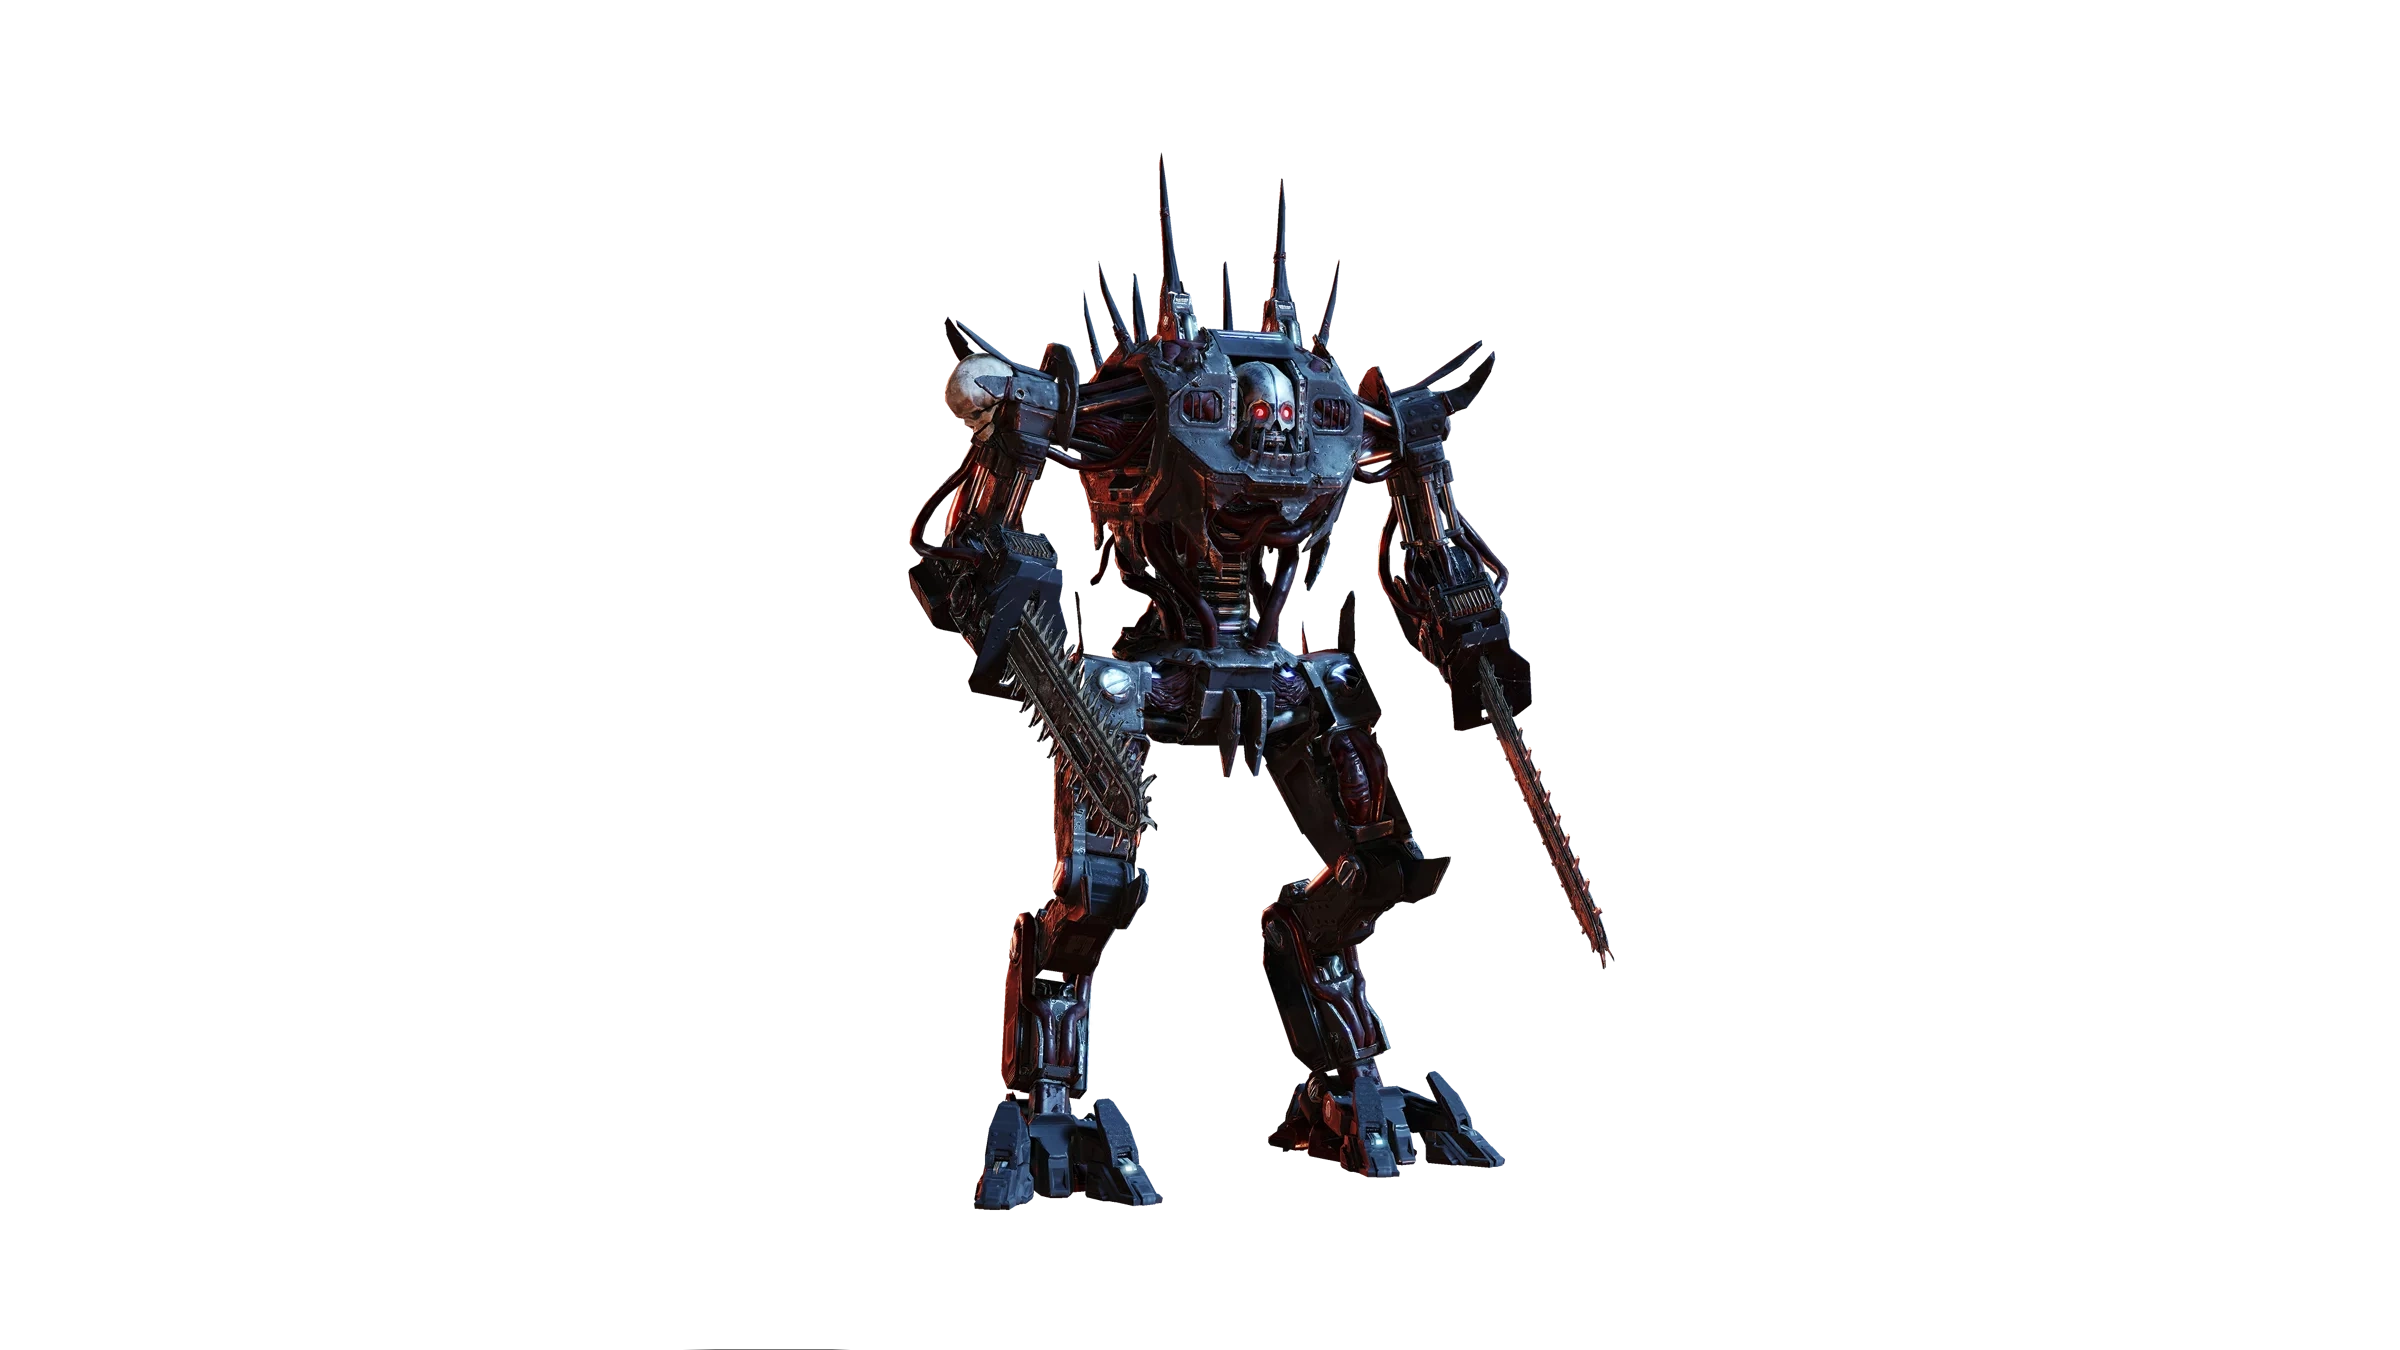
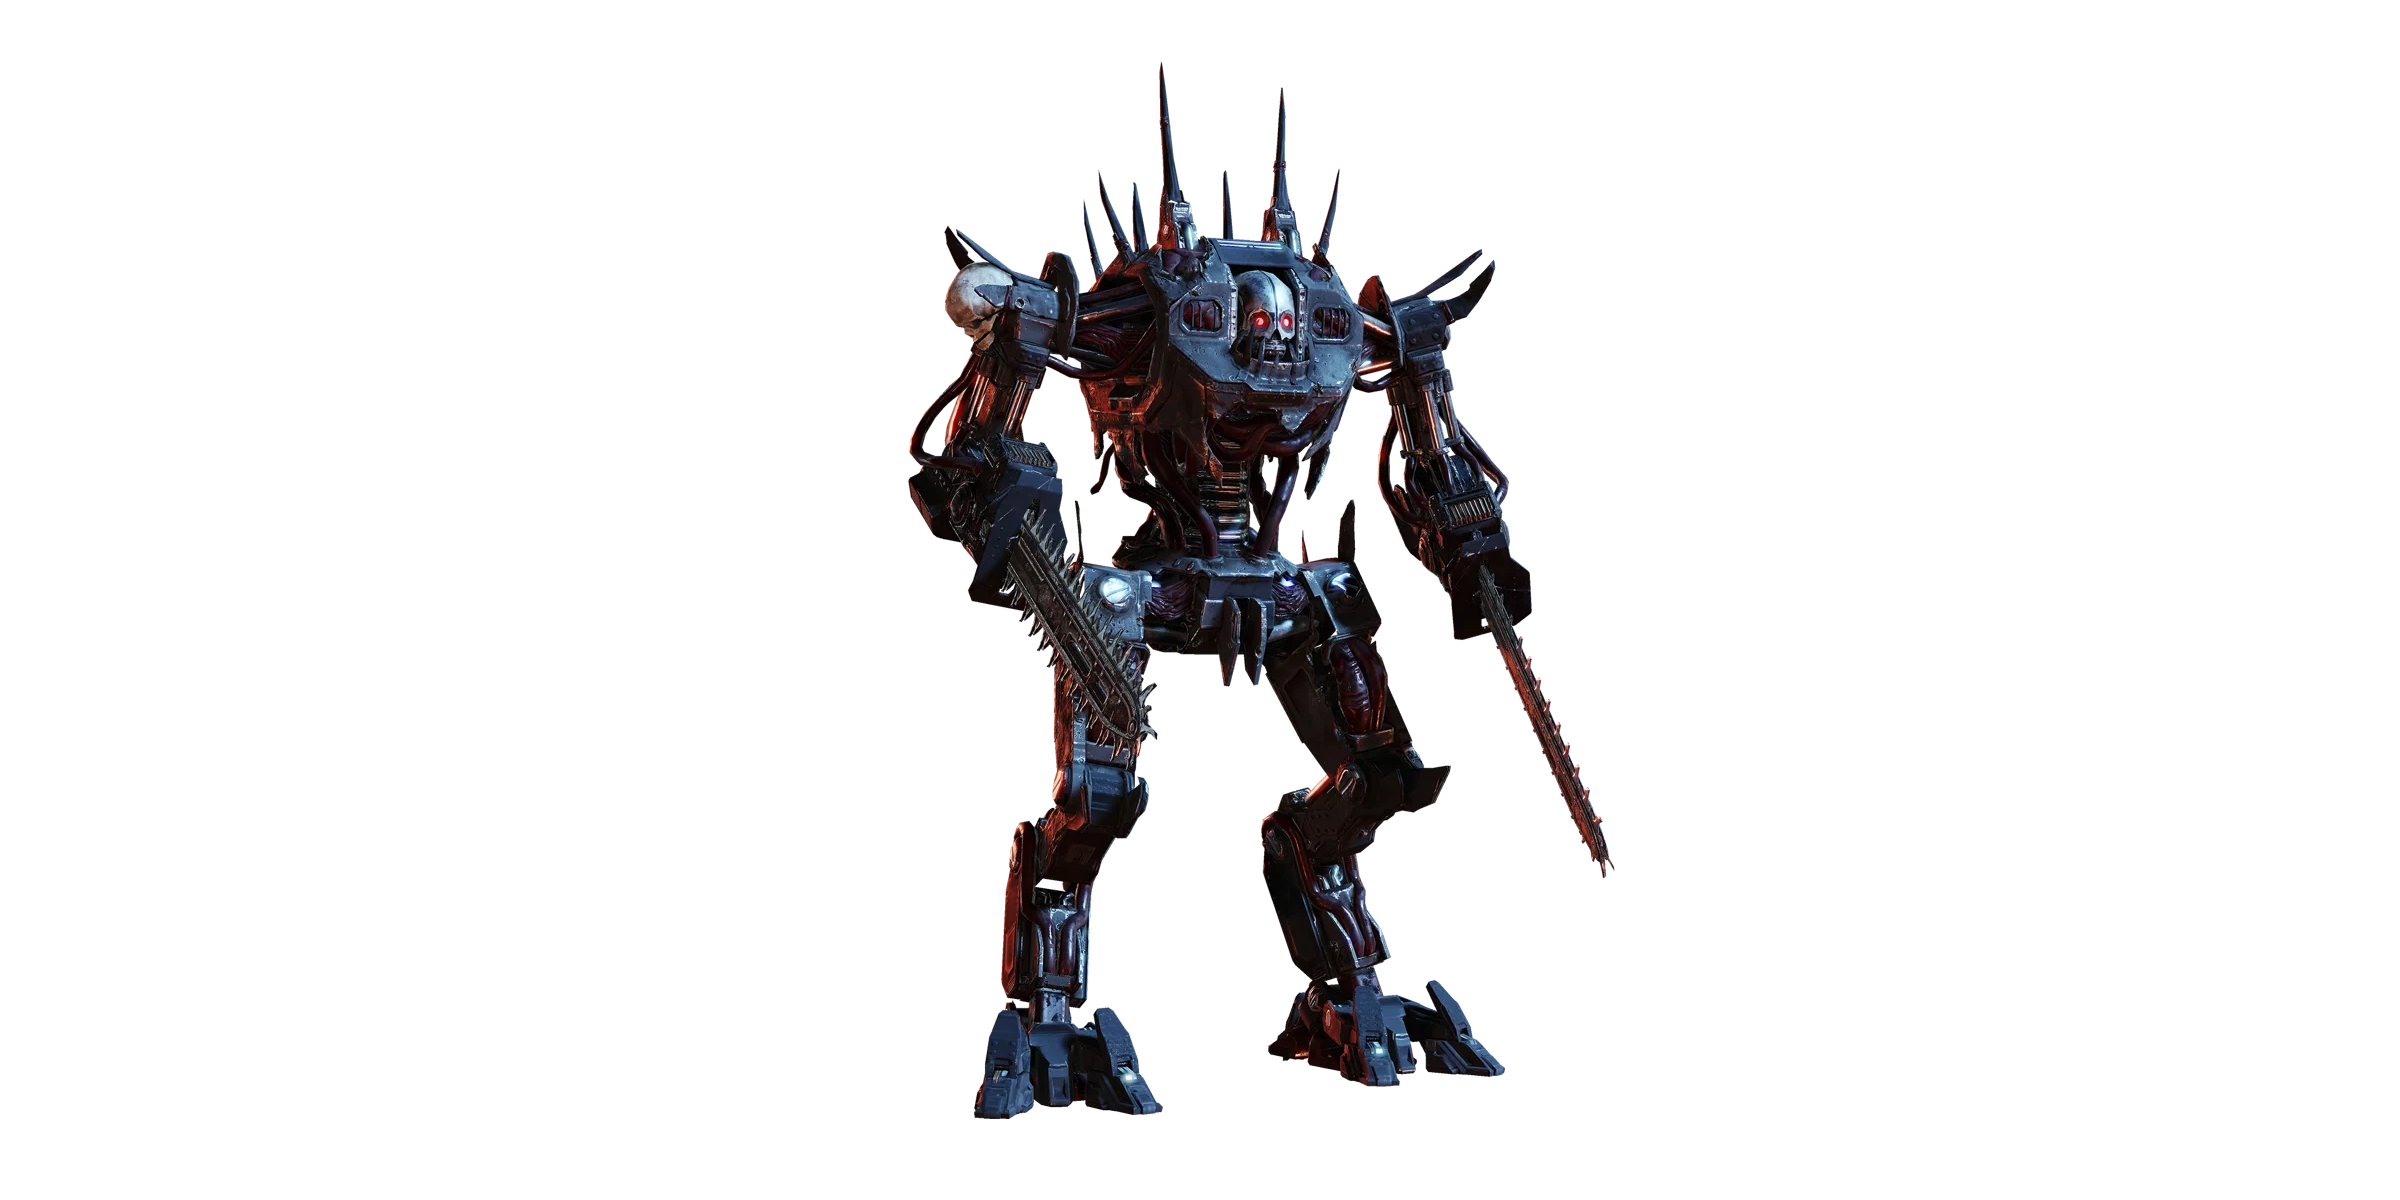
feat: Адаптировал страницу противников под мобильные устройства
chore: Заменил изображения 2 автоматонов

Changed region(s): [[0.375, 0.0925, 0.6875, 0.9558], [0.5, 0.6167, 0.625, 0.925]]

diff --git a/entities/enemiesPage/enemy/Enemy.tsx b/entities/enemiesPage/enemy/Enemy.tsx
@@ -56,7 +56,7 @@ const Enemy: React.FC<EnemyTypeProps> = ({
           src={`${iconPath}`}
           alt=""
           style={{ transform: imageStyleScale }}
-          className={`w-[200px] h-[300px] ${fraction === "Автоматоны" ? getSpecificAutomatonStyle(id) : getSpecificTerminidStyle(id)}`}
+          className={`w-[200px] mlarge:w-[180px] mmedium:w-[160px] msmall:w-[140px] h-[300px] mlarge:h-[235px] mmedium:h-[215px] msmall:h-[195px] ${fraction === "Автоматоны" ? getSpecificAutomatonStyle(id) : getSpecificTerminidStyle(id)}`}
         />
       ) : (
         <p
@@ -66,7 +66,7 @@ const Enemy: React.FC<EnemyTypeProps> = ({
         </p>
       )}
 
-      <p className="mt-[20px] text-[#ffffff] text-[1.75rem] text-center font-['Exo2'] font-bold">
+      <p className="mt-[20px] mlarge:mt-[-5px] mmedium:mt-[-5px] msmall:mt-0 text-[#ffffff] text-[1.75rem] mlarge:text-[1.25rem] mmedium:text-[1.125rem] msmall:text-[1rem] text-center font-['Exo2'] font-bold">
         {title}
       </p>
     </Link>

diff --git a/app/enemy/[fractionName]/page.tsx b/app/enemy/[fractionName]/page.tsx
@@ -14,7 +14,6 @@ import PageDescription from "@/shared/PageDescription";
 import Enemy from "@/entities/enemiesPage/enemy/Enemy";
 
 import "@/app/pageSections.css";
-import "./EnemyPage.css";
 
 export function generateStaticParams() {
   return [{ fractionName: "terminids" }, { fractionName: "automatons" }];
@@ -75,7 +74,7 @@ const Page: React.FC<{ params: any }> = ({ params }) => {
           </>
         )}
 
-        <section className="pageGridSection grid-cols-3">
+        <section className="pageGridSection grid-cols-3 mlarge:grid-cols-1 mt-[50px] mlarge:mt-[30px]">
           {params.fractionName === "terminids"
             ? enemiesStore.terminids.map((terminid) => (
                 <Enemy

diff --git a/entities/enemiesPage/enemy/Enemy.css b/entities/enemiesPage/enemy/Enemy.css
@@ -1,3 +1,3 @@
 .rootWidgetLink {
-    @apply relative grid justify-items-center px-[30px] py-[30px] w-full h-auto bg-[#00293a] border-2 border-[--theme-color] rounded-[10px] overflow-hidden cursor-pointer;
+    @apply relative grid justify-items-center px-[30px] mlarge:px-[15px] py-[30px] mlarge:py-[15px] w-full h-auto mlarge:h-[290px] mmedium:h-[270px] msmall:h-[250px] bg-[#00293a] border-2 border-[--theme-color] rounded-[10px] overflow-hidden cursor-pointer;
 }

diff --git a/app/globals.css b/app/globals.css
@@ -43,7 +43,7 @@ main {
 }
 
 .pageDescription {
-  @apply mt-[20px] w-[80%] mlarge:w-full text-[#ffffff] text-[1.5rem] mlarge:text-[1.125rem] font-['Exo2'] font-medium brightness-75;
+  @apply mt-[20px] mlarge:mt-[10px] w-[80%] mlarge:w-full text-[#ffffff] text-[1.5rem] mlarge:text-[1.125rem] font-['Exo2'] font-medium brightness-75;
 }
 
 .sliderWrapper_Slider_Slide {

diff --git a/store/EnemiesStore.ts b/store/EnemiesStore.ts
@@ -254,7 +254,7 @@ class EnemiesStore {
     {
       id: 3,
       iconPath: "/static/Automatons/BerserkerImage.webp",
-      imageStyleScale: "scaleY(1.2) scaleX(3.5)",
+      imageStyleScale: "scaleY(1.05) scaleX(3.5)",
       title: "Берсерк",
       engTitle: "Berserker",
       fraction: fractions["3"],

diff --git a/store/MobileStore.ts b/store/MobileStore.ts
@@ -15,7 +15,6 @@ class MobileStore {
         storage: window.localStorage,
       });
 
-      this.changeIsMobileDeviceStatus();
       setInterval(() => this.changeIsMobileDeviceStatus(), 1000);
     }
   }
